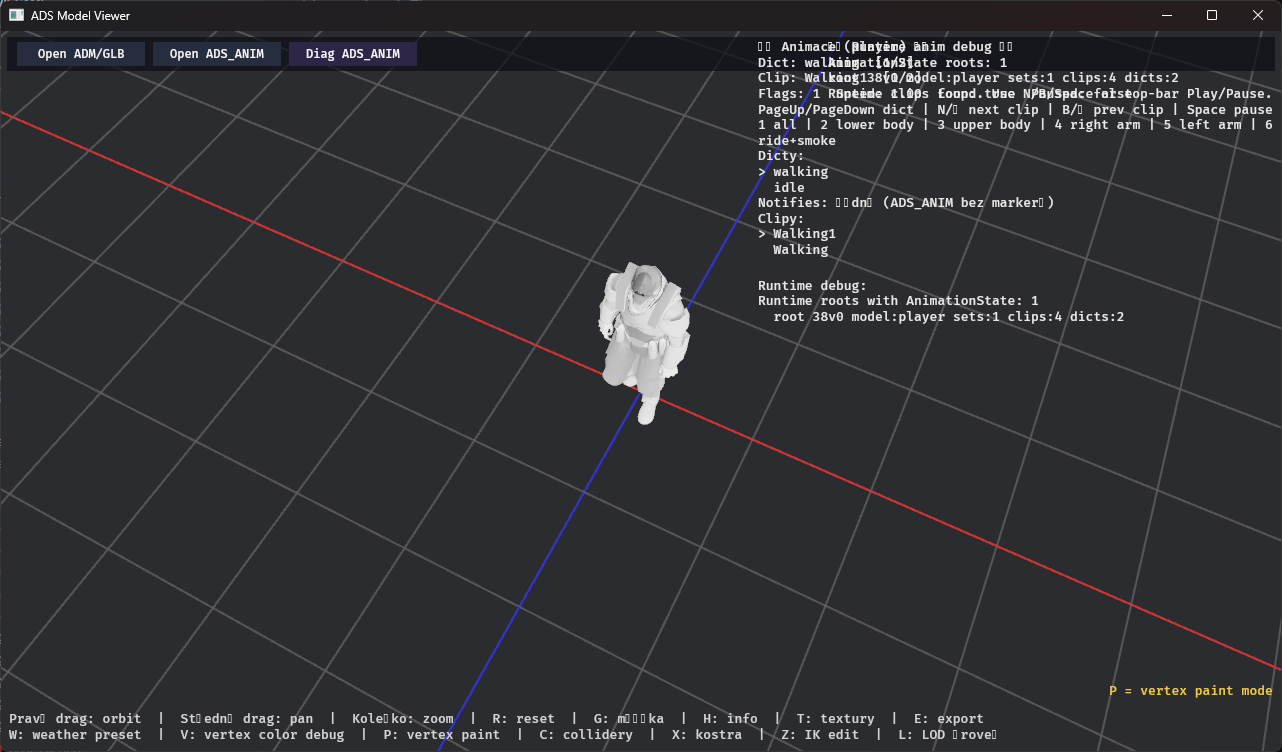
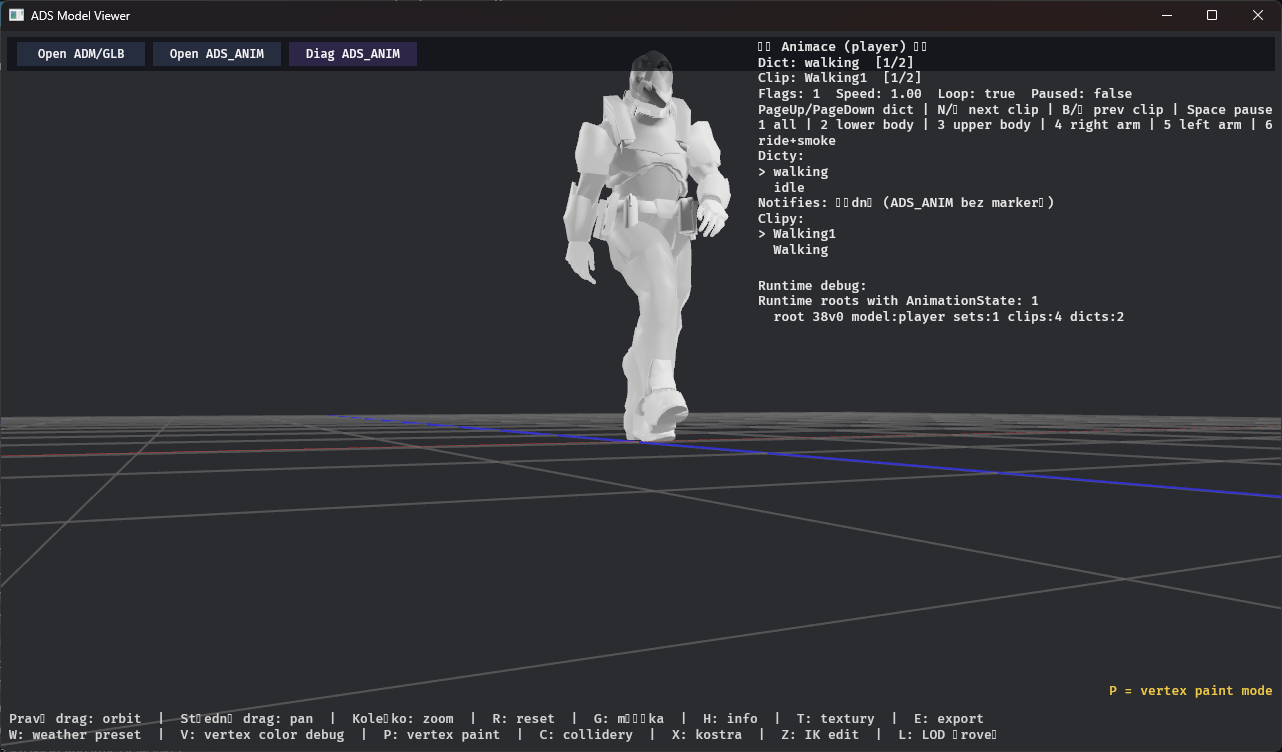
Refactor code structure for improved readability and maintainability

diff --git a/host_client/src/gameplay.rs b/host_client/src/gameplay.rs
@@ -23,13 +23,13 @@ use bevy_gltf::{
     GltfSceneExtras,
 };
 use core_net::{player_action, InputChannel, PlayerInput};
-use core_resources::{AnimationState, CameraAttachment, ConnectionInfo, CrosshairHit, EntityHandle, GameBridges, InputSnapshot, LocalEventBus, LocalObjectMarker, LuaWorldState, ModelAnimationRegistry, ModelName, ModelRegistry, process_lua_commands, sync_entity_state_cache};
+use core_resources::{AnimationState, AttachedAnimSets, CameraAttachment, ConnectionInfo, CrosshairHit, EntityHandle, GameBridges, InputSnapshot, LocalEventBus, LocalObjectMarker, LuaWorldState, ModelAnimationRegistry, ModelName, ModelRegistry, process_lua_commands, sync_entity_state_cache};
 use core_shared::{NetTransform, PlayerMarker};
 use lightyear::prelude::*;
 use lightyear::prelude::Predicted;
 
 use crate::config::ClientConfigResource;
-use crate::native_assets::AdmHandleCache;
+use crate::native_assets::{AdmHandleCache, PedAdsAnimIndex};
 use crate::drawable::AdmSceneRoot;
 use crate::AppState;
 use crate::drawable::{GltfHandleCache, PedPhysicsDef, PedPhysicsRegistry};
@@ -379,21 +379,6 @@ fn resolve_ped_profile_for_model<'a>(
         .or_else(|| resolve_default_ped_profile(ped_reg, ped_assets))
 }
 
-fn choose_existing_adm_clip(
-    scene: &crate::drawable::AdmScene,
-    preferred: &str,
-    fallback: &str,
-) -> Option<String> {
-    if scene.animations.iter().any(|c| c.name == preferred) {
-        return Some(preferred.to_string());
-    }
-    if scene.animations.iter().any(|c| c.name == fallback) {
-        return Some(fallback.to_string());
-    }
-    scene.animations.first().map(|c| c.name.clone())
-}
-
-
 fn setup_scene_and_camera(
     mut commands: Commands,
 ) {
@@ -506,6 +491,7 @@ fn apply_cursor_mode(
 fn attach_player_model_to_new_players(
     mut commands: Commands,
     asset_server: Res<AssetServer>,
+    ped_anim_index: Res<PedAdsAnimIndex>,
     ped_reg: Res<PedPhysicsRegistry>,
     ped_assets: Res<Assets<PedPhysicsDef>>,
     predicted_players: Query<&PlayerMarker, With<Predicted>>,
@@ -529,6 +515,11 @@ fn attach_player_model_to_new_players(
         let model_name = resolve_default_ped_profile(&ped_reg, &ped_assets)
             .map(|p| p.identity.model.as_str())
             .unwrap_or("player");
+        let attached_anim_sets = ped_anim_index
+            .0
+            .get(model_name)
+            .cloned()
+            .unwrap_or_default();
         let model_path = format!("models/{}.adm", model_name);
         let model_handle = asset_server.load::<crate::drawable::AdmScene>(model_path);
 
@@ -563,7 +554,7 @@ fn attach_player_model_to_new_players(
                 .with_max_hits(4),
             ))
             .with_children(|p| {
-                p.spawn((
+                let mut child = p.spawn((
                     AdmSceneRoot(model_handle.clone()),
                     // Bez DisableDrawableCollisions — COL_player z manifestu
                     // se stane compound coliderem parent RigidBody.
@@ -574,6 +565,11 @@ fn attach_player_model_to_new_players(
                     InheritedVisibility::default(),
                     ViewVisibility::default(),
                 ));
+                if !attached_anim_sets.is_empty() {
+                    child.insert(AttachedAnimSets {
+                        sets: attached_anim_sets.clone(),
+                    });
+                }
             });
 
         info!(
@@ -589,7 +585,6 @@ fn update_player_state_driven_animations(
     cfg: Res<ClientConfigResource>,
     ped_reg: Res<PedPhysicsRegistry>,
     ped_assets: Res<Assets<PedPhysicsDef>>,
-    adm_assets: Res<Assets<crate::drawable::AdmScene>>,
     local_bus: Res<LocalEventBus>,
     local_client_id: Option<Res<LocalClientId>>,
     mut commands: Commands,
@@ -732,12 +727,10 @@ fn update_player_state_driven_animations(
             }
         };
 
-        let resolved_clip = if let Some(scene) = adm_assets.get(&adm_root.0) {
-            choose_existing_adm_clip(scene, desired_clip, &ped.animations.idle)
-        } else {
-            Some(desired_clip.clone())
-        };
-        let Some(clip) = resolved_clip else { continue };
+        if desired_clip.is_empty() {
+            continue;
+        }
+        let clip = desired_clip.clone();
 
         let blend_time = match next_anim_state {
             PlayerAnimState::Land => 0.08,

diff --git a/host_client/src/native_assets.rs b/host_client/src/native_assets.rs
@@ -9,12 +9,13 @@
 //! Model ID = název souboru bez přípony (case-sensitive).
 
 use std::path::PathBuf;
+use std::collections::{HashMap, HashSet};
 
 use bevy::prelude::*;
 
 use core_resources::ModelRegistry;
 
-use crate::drawable::{AdmScene, DrawableManifestRegistry, GltfHandleCache};
+use crate::drawable::{AdmScene, AnimationSet, DrawableManifestRegistry, GltfHandleCache};
 use crate::drawable::{PedPhysicsDef, PedPhysicsRegistry};
 use crate::gui_render::GuiFontRegistry;
 
@@ -26,12 +27,22 @@ pub struct AdmHandleCache(pub std::collections::HashMap<String, Handle<AdmScene>
 #[derive(Resource, Default)]
 pub struct PedPhysicsHandleCache(pub Vec<Handle<PedPhysicsDef>>);
 
+/// Index ADS animačních setů podle modelu načtený z `.ped.toml` profilů.
+#[derive(Resource, Default)]
+pub struct PedAdsAnimIndex(pub HashMap<String, Vec<String>>);
+
+/// Silné handly na ADS anim-sety použitých ped profilů (preload + keep-alive).
+#[derive(Resource, Default)]
+pub struct PedAdsAnimHandleCache(pub HashMap<String, Handle<AnimationSet>>);
+
 pub struct NativeAssetsPlugin;
 
 impl Plugin for NativeAssetsPlugin {
     fn build(&self, app: &mut App) {
         app.init_resource::<AdmHandleCache>()
             .init_resource::<PedPhysicsHandleCache>()
+            .init_resource::<PedAdsAnimIndex>()
+            .init_resource::<PedAdsAnimHandleCache>()
             .add_systems(Startup, load_native_assets)
             .add_systems(Update, sync_ped_physics_registry);
     }
@@ -69,9 +80,12 @@ fn load_native_assets(
 /// Průběžně plní `PedPhysicsRegistry` z `PedPhysicsHandleCache`.
 /// Čeká dokud není asset plně načtený, pak ho přesune do registry.
 fn sync_ped_physics_registry(
+    asset_server: Res<AssetServer>,
     ped_assets: Res<Assets<PedPhysicsDef>>,
     handle_cache: Res<PedPhysicsHandleCache>,
     mut ped_reg: ResMut<PedPhysicsRegistry>,
+    mut ads_anim_index: ResMut<PedAdsAnimIndex>,
+    mut ads_anim_handles: ResMut<PedAdsAnimHandleCache>,
 ) {
     for handle in &handle_cache.0 {
         if ped_reg.0.values().any(|h| h.id() == handle.id()) {
@@ -83,7 +97,55 @@ fn sync_ped_physics_registry(
                 ped_reg.0.insert(key.clone(), handle.clone());
                 info!("[native_assets] ped physics ready: '{}'", key);
             }
+
+            if !ads_anim_index.0.contains_key(&key) {
+                let mut unique_paths = Vec::new();
+                let mut seen = HashSet::new();
+                for raw in &ped.animation_sets.ads_anim {
+                    let normalized = normalize_ads_anim_path(raw);
+                    if normalized.is_empty() {
+                        continue;
+                    }
+                    if !seen.insert(normalized.clone()) {
+                        continue;
+                    }
+                    unique_paths.push(normalized.clone());
+                    ads_anim_handles
+                        .0
+                        .entry(normalized.clone())
+                        .or_insert_with(|| asset_server.load::<AnimationSet>(normalized.clone()));
+                }
+                ads_anim_index.0.insert(key.clone(), unique_paths.clone());
+                if unique_paths.is_empty() {
+                    info!("[native_assets] ped ads_anim index '{}' -> 0 entries", key);
+                } else {
+                    info!(
+                        "[native_assets] ped ads_anim index '{}' -> {} entries",
+                        key,
+                        unique_paths.len()
+                    );
+                }
+            }
         }
+    }
+}
+
+fn normalize_ads_anim_path(raw: &str) -> String {
+    let trimmed = raw.trim().replace('\\', "/");
+    if trimmed.is_empty() {
+        return String::new();
+    }
+
+    let with_ext = if trimmed.ends_with(".ads_anim") {
+        trimmed
+    } else {
+        format!("{}.ads_anim", trimmed)
+    };
+
+    if with_ext.contains('/') {
+        with_ext
+    } else {
+        format!("models/{}", with_ext)
     }
 }
 

diff --git a/core_drawable/src/ped.rs b/core_drawable/src/ped.rs
@@ -24,6 +24,9 @@ pub struct PedPhysicsDef {
     pub animations: PedAnimations,
 
     #[serde(default)]
+    pub animation_sets: PedAnimationSets,
+
+    #[serde(default)]
     pub capsule: PedCapsule,
 
     #[serde(default)]
@@ -55,6 +58,17 @@ pub struct PedPhysicsDef {
 
     #[serde(default)]
     pub ragdoll: PedRagdoll,
+}
+
+#[derive(Debug, Clone, Deserialize, Default)]
+pub struct PedAnimationSets {
+    /// Seznam ADS animačních setů použitých ped profilem.
+    /// Podporuje:
+    /// - "player"           -> models/player.ads_anim
+    /// - "player.ads_anim"  -> models/player.ads_anim
+    /// - "models/x.ads_anim" -> beze změny
+    #[serde(default)]
+    pub ads_anim: Vec<String>,
 }
 
 // ---------------------------------------------------------------------------

diff --git a/CLAUDE.md b/CLAUDE.md
@@ -72,7 +72,7 @@ files { 'assets/ui_icons.png' }
 |------|---------|
 | **Phase 1** — Shell & VFS | Cargo workspace, VFS scanner, manifest.lua DSL parser, dependency resolver (Kahn), per-resource Lua sandbox |
 | **Phase 2** — Network Handshake | `core_net`, lightyear UDP, Axum HTTP file server, blake3 digest handshake, Lua RPC bridge |
-| **Phase 3.1** — Gameplay Foundations | `PlayerInput`, `NetTransform`, player spawn/render, 1st/3rd person kamera (F6 toggle / `Camera.SetMode`), client-trusted movement (Avian), yaw sync, movement smoothing, dynamic player model resolve z `player.ped.toml` (`identity.model`) místo hardcoded `models/player.adm`, state-driven player animations z `player.ped.toml` (`[animations]`: idle/walk/run/sprint/jump/fall/land) |
+| **Phase 3.1** — Gameplay Foundations | `PlayerInput`, `NetTransform`, player spawn/render, 1st/3rd person kamera (F6 toggle / `Camera.SetMode`), client-trusted movement (Avian), yaw sync, movement smoothing, dynamic player model resolve z `player.ped.toml` (`identity.model`) místo hardcoded `models/player.adm`, state-driven player animations z `player.ped.toml` (`[animations]`) jako autoritativní selector (`clip:*`/`dict:*`), startup preload + index ADS animačních setů z `player.ped.toml` (`[animation_sets].ads_anim`) a auto-attach `AttachedAnimSets` na player ADM root |
 | **Phase 3.2** — Lua Bridge | `LuaCommand` enum, `CommandQueue`, `LuaWorldState`, `process_lua_commands` (PostUpdate) |
 | **Phase 3.3** — Combat | `WeaponConfig`, `Health`, `process_combat`, `PRIMARY_FIRE` bitflag, ACE authority, `onPlayerHit`/`onPlayerDeath`/`playerConnecting`/`playerDropped` |
 | **Phase 3.4** — Model Registry | `ModelRegistry`, `scan_stream_models()`, async GPU load, `Engine.RequestModel/HasModelLoaded`, runtime clip metadata cache (`Engine.GetModelClipCount/GetModelClipNames`), ADM v5 animation dictionary metadata cache (`Engine.GetAnimDictNames/GetAnimDictClips`) |
@@ -94,7 +94,7 @@ files { 'assets/ui_icons.png' }
 - [X] Blender import split: `.adm` importuje geometrii, `.ads_anim` importuje samostatné animace do armatury
 - [X] model_viewer ADMv6 path: `.adm` rooty auto-attachují sibling/CLI `.ads_anim`, animation browser čte klipy/dictionaries/notifies z `AnimationSet`
 - [X] model_viewer top toolbar: runtime tlačítka pro otevření `.adm/.glb` a `.ads_anim` + rychlé debug přepínače (grid/colliders/skeleton/reset cam)
-- [X] model_viewer modularizace: původní `main.rs` rozdělen do menších modulů (`state.rs`, `scene.rs`, `loader.rs`, `animation.rs`) pro lepší čitelnost a údržbu
+- [X] model_viewer modularizace: původní `main.rs` rozdělen do menších modulů (`state.rs`, `scene.rs`, `loader.rs`, `animation.rs`, `runtime.rs`) pro lepší čitelnost a údržbu
 - [ ] Blend Spaces infrastruktura: `BlendSpaceState` komponenta, `PlayBlendSpace` command, Lua API, ale runtime evaluace vah zatím není (TODO pro Phase 4.x)
 - [ ] Integrovat `sqlx` (stub `Database.*` API přítomen)
 - [ ] Vlastní WGSL shadery z Lua resources
